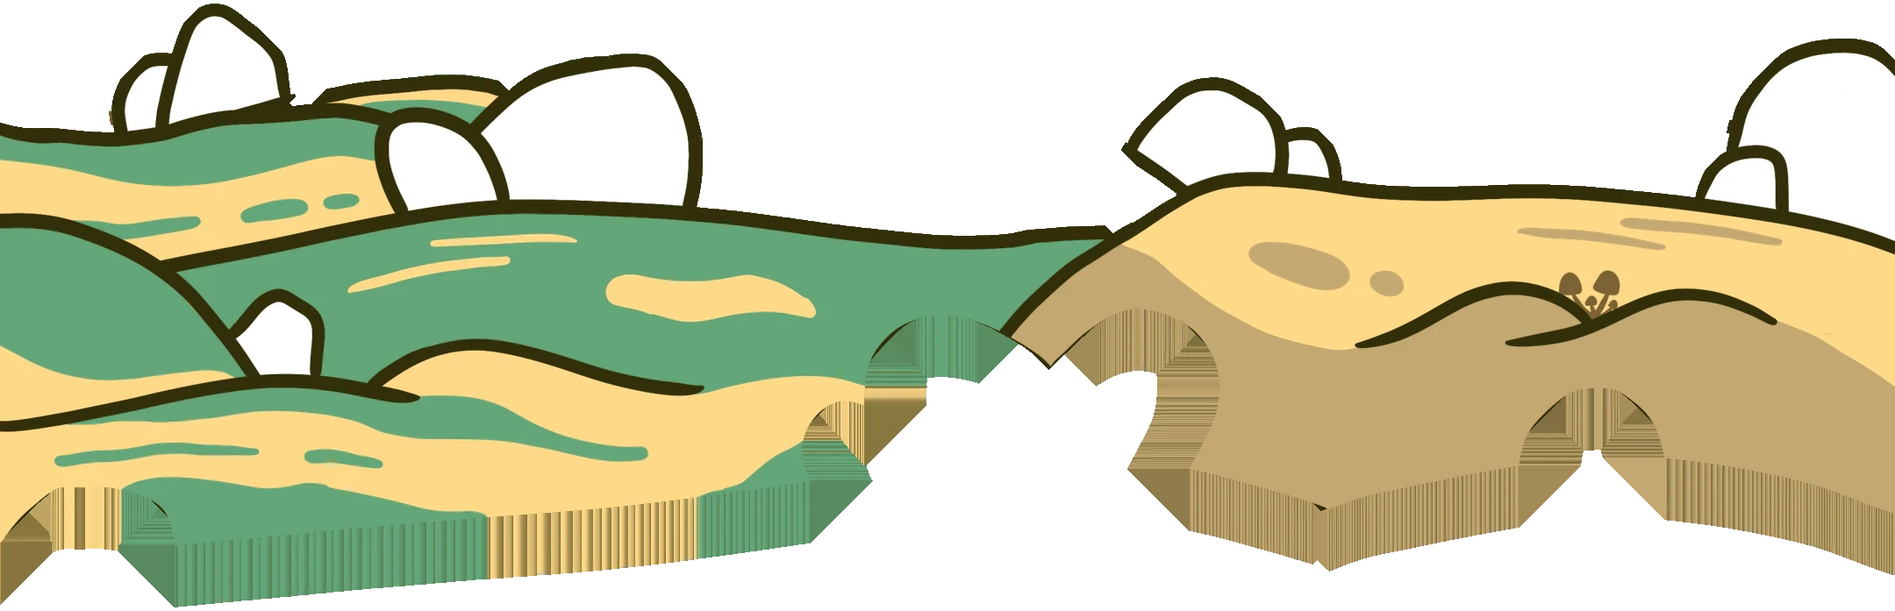
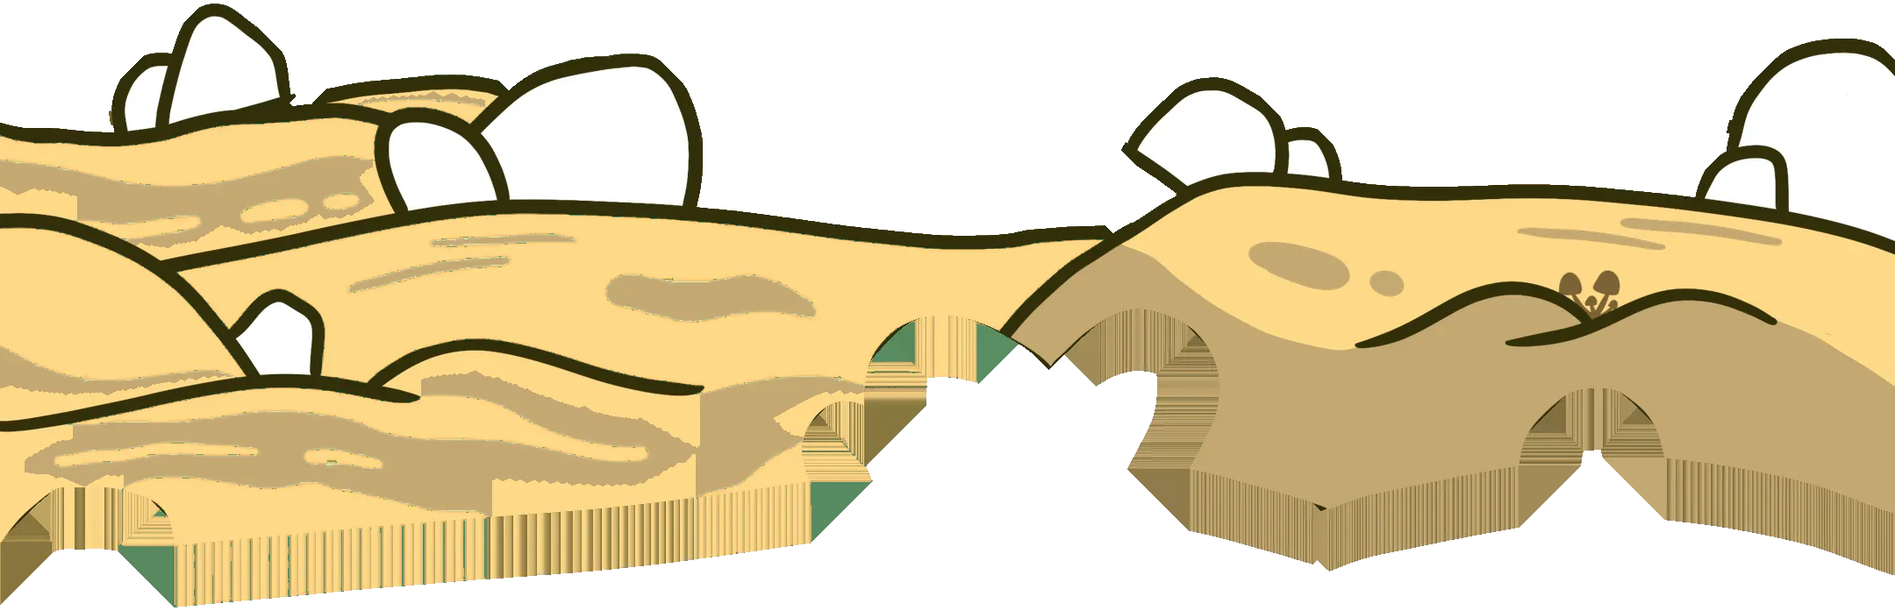
Ciclos: el cambio de ciclo, de la noche al día (#92)
* Ciclos: the night pours away as a tide over the cycle

A cycle begins with the night over 90% of the sky and every plant let go
pours the day further as a liquid, until it is almost all day; the stars
live wherever the night is, and the clouds drift faster.

Claude-Session: https://claude.ai/code/session_01QfwwihVpCPTovbdSum58Fi

* Ciclos: the dry hills turn green as the day pours

A layer's turn in useLayerStage recolours the px of two colours by a
flowing front; Ciclos's land starts tan and turns green from left to
right with the tide.

Claude-Session: https://claude.ai/code/session_01QfwwihVpCPTovbdSum58Fi

* Ciclos: every hill yellow above and tan below

scripts/swap-ciclos-hills.mjs swaps the colours of the green hills (green
to yellow, yellow to tan), so all start dry the same way round and their
tan turns green with the day.

Claude-Session: https://claude.ai/code/session_01QfwwihVpCPTovbdSum58Fi

* Ciclos: dry hills and a cream name by night, the drawing by day

The hills start dry (yellow above, tan below) and turn into the drawing's
green and yellow along the flowing front: a layer's turn in useLayerStage
is now a second picture (landN-day.webp, from swap-ciclos-hills.mjs). The
card's name is cream over the night and its colour by day (--name-night).

Claude-Session: https://claude.ai/code/session_01QfwwihVpCPTovbdSum58Fi

---------

Changed region(s): [[0.0, 0.1506, 0.5894, 0.9943]]

diff --git a/src/components/scenes/SceneCiclos.vue b/src/components/scenes/SceneCiclos.vue
@@ -6,9 +6,11 @@
     // and tufts of grass, Sid sits meditating on a rock with his red aura round him.
     // Its verb is Soltar (closing a cycle: "you can only move forward if you are able to let go of the old"). The plants
     // of the hills, the pink fans and the tufts of grass, hold the old cycle as their dry leaves: a touch on one lets them
-    // go (`release`): it shivers, its leaves fly off with the wind and it is left low and bare. With every plant let go
-    // the day flows a little further over the round body in the sky (a dent pressed into the edge, the field's uDent), so
-    // the moon gives way to the sun. Holding Sid is a breath, as in Vipassana, Nekkhamma and Upekkha (`inhale`; let go
+    // go (`release`): it shivers, its leaves fly off with the wind and it is left low and bare. A cycle begins with the
+    // night over almost all the sky, and with every plant let go the day pours a little further over it as a liquid (the
+    // tide, pour()) until it is almost all day; the dry hills turn into the drawing's green and yellow from left to right with it, and
+    // the name from cream to its colour; and over the round body in the sky (a dent pressed into the edge, the
+    // field's uDent), so the moon gives way to the sun. Holding Sid is a breath, as in Vipassana, Nekkhamma and Upekkha (`inhale`; let go
     // once gathered, `exhale`, and every plant left lets go at once). With them all bare the sun is whole: F7 resolves to
     // B flat (`resolve`), the corona flares, the name lights up and the rulito is born over his head (`rulito`); when it
     // goes the night pours back over the sun and the plants grow their leaves again: a new cycle. Left alone 7 s, a plant
@@ -97,7 +99,7 @@
     const CLOUD_Y = [Math.min(...art.clouds.map(([, y, , h]) => y + h / 2)), 1100];
     const clouds = art.clouds.map(([x, y, w, h, ax, ay], i) => ({
         i, art: { x: x + w / 2, y: Math.min(CLOUD_Y[1], y + h / 2), w, h }, crop: [ax / CW, ay / CH, w / CW, h / CH],
-        rest: { left: 0, top: 0, w: 1, h: 1 }, x0: 0, phase: Math.random() * 6.28, speed: 4 + (i % 3) * 2.5, depth: i % 3,
+        rest: { left: 0, top: 0, w: 1, h: 1 }, x0: 0, phase: Math.random() * 6.28, speed: 9 + (i % 3) * 5, depth: i % 3,
     }));
     let span = { left: 0, width: 1 };
 
@@ -170,6 +172,23 @@
             for (let x = 0; x < w; x++) grid[y * w + x] = d[x];
         }
     };
+    // The tide: over a cycle the night does not stay as the card has it. A cycle begins with the night over almost all
+    // the sky (NIGHT_START of what is seen of it) and every plant let go pours the day a little further, until it is
+    // almost all day (NIGHT_END). It is the card's edge, moved: each px keeps how far it is from that edge (px, more
+    // into the night), plus a slope (TIDE_SLOPE: px for each px to the right and for each px down), so the day stays
+    // over the name at first and the last of the night goes off to the right, low behind Sid; the field is written again from it as the tide
+    // moves (pour), the edge at its level, so it flows with its waves as before
+    const NIGHT_START = 0.9, NIGHT_END = 0.06;
+    const TIDE_SLOPE = [0.25, 0.6];
+    const SKY_BOTTOM = 1150;                // art y under which the hills hide the sky
+    // The ground goes with it: the hills, dry when the cycle begins (all yellow above and tan below), turn into the drawing
+    // by day (green and yellow) as the day pours, along a front that flows from left to right (each land picture's `turn`
+    // in useLayerStage: landN.webp dry and landN-day.webp, both made by scripts/swap-ciclos-hills.mjs). And the card's
+    // name: cream in the night, its own colour by day (--name-night on the stage, CardTemplate)
+    const GROUND_SOFT = 3, GROUND_LOBES = 60;   // px of the front's softness and of its lobes                // art y under which the hills hide the sky
+    // and a few slow lobes, so its front is not a straight line as it moves (px)
+    const lobes = (x, y) => 55 * Math.sin(x / 210 + 1.3) * Math.sin(y / 170 + 0.4) + 30 * Math.sin((x - 0.6 * y) / 120 + 2.1);
+    const tide = { phi: null, width: 0, height: 0, at: [0, 0], level: NaN, image: null };
     const writeField = (area) => {
         const width = Math.ceil(area.w * FIELD), height = Math.ceil(area.h * FIELD);
         const inNight = new Uint8Array(width * height);
@@ -186,19 +205,48 @@
         }
         distances(toNight, width, height);
         distances(toDay, width, height);
+        // How far each px is into the night (px on screen; < 0 in the day), with the slope
+        const phi = new Float32Array(width * height);
+        const seen = [];
+        const skyBottom = sy(SKY_BOTTOM);
+        const screenR = area.w - 2 * MARGIN;
+        for (let fy = 0; fy < height; fy++) {
+            const y = area.top + (fy + 0.5) / FIELD;
+            for (let fx = 0; fx < width; fx++) {
+                const x = area.left + (fx + 0.5) / FIELD;
+                const i = fy * width + fx;
+                // (half a px each way, so the edge falls between the two)
+                const d = (inNight[i] ? Math.sqrt(toDay[i]) - 0.5 : 0.5 - Math.sqrt(toNight[i])) / FIELD;
+                phi[i] = d + TIDE_SLOPE[0] * (x - screenR / 2) + TIDE_SLOPE[1] * y + lobes(x, y);
+                if (x >= 0 && x <= screenR && y >= 0 && y <= skyBottom && (fx + fy) % 2 === 0) seen.push(phi[i]);
+            }
+        }
+        // The levels where NIGHT_START and NIGHT_END of the sky that is seen are night
+        seen.sort((a, b) => a - b);
+        const at = (q) => seen.length ? seen[Math.min(seen.length - 1, Math.floor(q * seen.length))] : 0;
+        Object.assign(tide, { phi, width, height, at: [at(1 - NIGHT_START), at(1 - NIGHT_END)], level: NaN });
         skyField.width = width;
         skyField.height = height;
-        const ctx = skyField.getContext('2d');
-        const image = ctx.createImageData(width, height);
-        const norm = 1 / FIELD / (2 * FIELD_RANGE);
-        for (let i = 0; i < width * height; i++) {
-            // (half a px each way, so the edge falls between the two)
-            const d = inNight[i] ? Math.sqrt(toDay[i]) - 0.5 : 0.5 - Math.sqrt(toNight[i]);
-            image.data[i * 4] = Math.round(Math.min(1, Math.max(0, 0.5 + d * norm)) * 255);
-            image.data[i * 4 + 1] = 255;
-            image.data[i * 4 + 3] = 255;
+        tide.image = skyField.getContext('2d').createImageData(width, height);
+        pour(true);
+    };
+    // The field at the tide's level now (only when it has moved half a px)
+    const pour = (force = false) => {
+        if (!tide.phi) return;
+        const level = tide.at[0] + (tide.at[1] - tide.at[0]) * ease(Math.min(1, Math.max(0, flowed)));
+        if (!force && Math.abs(level - tide.level) < 0.5) return false;
+        tide.level = level;
+        const { phi, image } = tide;
+        const norm = 1 / (2 * FIELD_RANGE);
+        const data = image.data;
+        for (let i = 0, n = phi.length; i < n; i++) {
+            const v = 0.5 + (phi[i] - level) * norm;
+            data[i * 4] = v <= 0 ? 0 : v >= 1 ? 255 : (v * 255 + 0.5) | 0;
+            data[i * 4 + 1] = 255;
+            data[i * 4 + 3] = 255;
         }
-        ctx.putImageData(image, 0, 0);
+        skyField.getContext('2d').putImageData(image, 0, 0);
+        return true;
     };
     // The drops of the card, alive: each sways and trembles where the card has it, as a liquid (only the sky's life:
     // the game is the plants, which a phone always shows; most drops are past its edges or too small for a finger)
@@ -226,6 +274,7 @@
     const BARE = { sy: 0.38, sx: 0.7, opacity: 0.5 };   // a plant that has let go: low, thin and faded (it grows back)
     const sparks = createSparks(360);
     let dent = 0;                           // how far the day has flowed over the disc, 0..1 (eases to its goal)
+    let flowed = 0;                         // how far the day has poured over the sky, 0..1 (the tide; slower than the dent)
     let alone = 0;                          // s since the last touch
     let backAt = 0;
     let released = 0;
@@ -395,6 +444,10 @@
             });
         });
         dent += (dentGoal() - dent) * Math.min(1, dt * (win || dentGoal() > dent ? 1.3 : 0.45));
+        // The day pours over the sky as a liquid, a little with every plant; the night pours back slower
+        const goal = dentGoal();
+        flowed += Math.sign(goal - flowed) * Math.min(Math.abs(goal - flowed), dt * (goal > flowed ? 0.05 : 0.03) + Math.abs(goal - flowed) * dt * (goal > flowed ? 0.6 : 0.3));
+        if (pour()) L.sky.refresh();
         const sr = MOON.r * k() * 1.05;
         L.sky.uniforms.uDent.value.set(sx(SUN.x), sy(SUN.y), sr, FULL * ease(Math.min(1, dent)));
 
@@ -456,6 +509,8 @@
             }
         }
         stageEl?.style.setProperty('--name-glow', named.toFixed(3));
+        const night = Math.min(1, Math.max(0, (flowed - 0.1) / 0.4));
+        stageEl?.style.setProperty('--name-night', (1 - night * night * (3 - 2 * night)).toFixed(3));
         return { named, charge };
     };
 
@@ -508,7 +563,7 @@
             const node = s.depth(zFor(DEPTH.land[p]));
             const sides = P.sides ? [-1, 0, 1] : [0];
             const land = sides.map((side) => {
-                const img = node.image(`/assets/ciclos/${P.name}.webp`);
+                const img = node.image(`/assets/ciclos/${P.name}.webp`, { turn: `/assets/ciclos/${P.name}-day.webp` });
                 if (side) img.sx = -1;
                 return { img, side };
             });
@@ -670,8 +725,13 @@
         L.warm.opacity = 0.6 + 0.1 * Math.sin(t * 0.4) + 0.3 * flare;
         L.sunNode.y = scroll * 10;
 
-        // ---- The land
-        L.planes.forEach(({ node }, p) => { node.y = scroll * DEPTH.land[p]; });
+        // ---- The land, and the green flowing over it with the day
+        const reach = (GROUND_SOFT + GROUND_LOBES * 1.6 + SLIDE * 2) * stage.dpr;
+        const front = -reach + (screenW * stage.dpr + 2 * reach) * ease(Math.min(1, Math.max(0, flowed)));
+        L.planes.forEach(({ node, land }, p) => {
+            node.y = scroll * DEPTH.land[p];
+            land.forEach(({ img }) => img.uniforms.uTurn.value.set(front, GROUND_SOFT * stage.dpr, GROUND_LOBES * stage.dpr, 1));
+        });
 
         // ---- Sid breathes, from his seat; his aura with him, flaring when touched
         glowSid = Math.max(0, glowSid - dt * 0.7);
@@ -710,20 +770,31 @@
         if (gone) { made.destroy(); return; }
         stage = made;
         stageEl = root.value.closest('.stage');
+        stageEl?.style.setProperty('--name-night', '1');
         build(stage);
         hand = createGhostHand(stage, { color: 0x143246, shade: 0xf7f8f1 });   // navy: the cream hand does not read on the day's yellow
         stage.onResize((w, h) => place(w, h));
         const after = (node) => node.mesh.renderOrder + 0.5;
-        // Every star, and its reflections about the frame's edges that fall on the screen and well inside the night
-        const deep = (ax, ay) => [[0, 0], [24, 0], [-24, 0], [0, 24], [0, -24]].every(([dx, dy]) => nightAt(ax + dx, ay + dy));
+        // The stars: the card's own, and as many again over the rest of the sky (the night pours over all of it), always
+        // the same ones; only seen where the night is (the field's mask), so they come and go with the tide
+        const STAR_R = NIGHT.stars.map(([, , r]) => r);
+        const extraStars = (() => {
+            let seed = 7;
+            const rnd = () => { seed = (seed * 16807) % 2147483647; return seed / 2147483647; };
+            const out = [];
+            for (let n = 0; n < NIGHT.stars.length * 6; n++) {
+                const ax = -SIZE * 0.5 + rnd() * SIZE * 2, ay = -SIZE * 0.6 + rnd() * SIZE * 1.4, r = STAR_R[Math.floor(rnd() * STAR_R.length)];
+                const inCard = ax >= 0 && ax < SIZE && ay >= 0;
+                if (!inCard || !nightAt(ax, ay)) out.push([ax, ay, r]);
+            }
+            return out;
+        })();
         const starPoints = (w, h) => {
             const out = [];
-            NIGHT.stars.forEach(([x, y, r]) => {
-                [[x, y], [2 * SIZE - x, y], [x, -y], [2 * SIZE - x, -y]].forEach(([ax, ay], j) => {
-                    const px = sx(ax), py = sy(ay);
-                    if (px < -40 || px > w + 40 || py < -40 || py > h + 40 || (j && !deep(ax, ay))) return;
-                    out.push([px, py, Math.max(2.2, 2 * r * k() * 1.6), NIGHT.star]);
-                });
+            [...NIGHT.stars, ...extraStars].forEach(([ax, ay, r]) => {
+                const px = sx(ax), py = sy(ay);
+                if (px < -40 || px > w + 40 || py < -40 || py > h + 40) return;
+                out.push([px, py, Math.max(2.2, 2 * r * k() * 1.6), NIGHT.star]);
             });
             return out;
         };
@@ -738,8 +809,8 @@
                 { colors: [SHADE], parallax: 0, drift: 0.4, jitter: 0.15, twinkle: 0.05, reach: 0, order: after(L.moon), mask: { field: L.sky, side: 1 }, points: () => fromArt(MOON.dots, SHADE, 1.5) },
                 // 2: Sid's aura, under him
                 { colors: [AURA], parallax: 0, drift: 1.4, jitter: 0.4, twinkle: 0.4, reach: 0, bloom: true, order: L.body.mesh.renderOrder - 0.5, points: () => fromArt(art.sid.aura, AURA, 1.1) },
-                // 3: the stars, only in the night, just over it (mirrored with it beyond the frame)
-                { colors: [NIGHT.star], parallax: 0, drift: 1.2, jitter: 0, twinkle: 0.6, reach: 90, push: 10, order: after(L.sky), points: starPoints },
+                // 3: the stars, only in the night, just over it
+                { colors: [NIGHT.star], parallax: 0, drift: 1.2, jitter: 0, twinkle: 0.6, reach: 90, push: 10, order: after(L.sky), mask: { field: L.sky, side: 1 }, points: starPoints },
                 // 4: the motes of what is let go, in front of everything
                 { ...sparks.group(), order: 1e6 },
             ],
@@ -747,7 +818,7 @@
         if (reduced) dust.reveal();
         parallax = createParallax(root.value, frame);
         root.value.addEventListener('pointerdown', press);
-        if (import.meta.env.DEV) root.value.__game = { get plants() { return plants; }, get released() { return released; }, get win() { return win; }, get dent() { return dent; }, centres: () => needed().map(centreOf) };
+        if (import.meta.env.DEV) root.value.__game = { get plants() { return plants; }, get released() { return released; }, get win() { return win; }, get dent() { return dent; }, get flowed() { return flowed; }, set flowed(v) { flowed = v; }, centres: () => needed().map(centreOf) };
         enter();
     };
 
@@ -756,6 +827,7 @@
     onBeforeUnmount(() => {
         gone = true;
         stageEl?.style.removeProperty('--name-glow');
+        stageEl?.style.removeProperty('--name-night');
         root.value?.removeEventListener('pointerdown', press);
         window.removeEventListener('pointerup', breatheOut);
         window.removeEventListener('pointercancel', breatheOut);

diff --git a/src/composables/useLayerStage.js b/src/composables/useLayerStage.js
@@ -30,6 +30,10 @@
 //   dissolve 0xRRGGBB  it can come undone from the bottom up: uniforms.uDissolve.value.y is how far (0 whole .. 1 gone),
 //            along a ragged edge (noise) that glows in that colour as it eats in (Nekkhamma's Sid)
 //   bright, saturate, tint + tintAmount  for lighting a layer up (the pine cone held)
+//   turn     'src'  (image() only) a second picture of the same size it turns into along a front with slow lobes that
+//            flows across the screen: the second on the left of the front, the first on its right (uniforms.uTurn.value:
+//            x the front, device px from the left; y its softness and z its lobes, device px; w on). Ciclos's hills,
+//            dry when a cycle begins and as in the drawing, green, by day
 //   sway     true  parts of the picture lean and stretch on their own about a point, the picture bending softly round
 //            them (Paciencia's mushrooms): node.sways is a list of up to SWAYS [u, v, w, angle (deg), stretch], u, v the
 //            point (fractions of the picture, from its top left), w the part's width (a fraction of the picture's),
@@ -113,6 +117,8 @@ const LAYER_FRAGMENT = `
     uniform vec2 uSink;            // on (0/1), level (0 full .. 1 empty)
     uniform vec2 uDissolve;        // on (0/1), how far it has come undone (0 whole .. 1 gone)
     uniform vec3 uDissolveGlow;
+    uniform vec4 uTurn;            // on (w), the front (x, device px from the left), its softness (y) and lobes (z), device px
+    uniform sampler2D uNext;       // the picture it turns into
     uniform vec2 uSize;
     uniform vec4 uCrop;            // the part of the texture shown: u, v of its corner and its size (0, 0, 1, 1: all of it)
     uniform float uSways;          // how many parts sway (-1: it does not sway at all)
@@ -188,6 +194,17 @@ const LAYER_FRAGMENT = `
         float grey = dot(c.rgb, vec3(0.299, 0.587, 0.114));
         c.rgb = mix(vec3(grey), c.rgb, uSaturate);
         c.rgb = mix(c.rgb, uTint * c.a, uTintAmount);
+        if (uTurn.w > 0.0) {
+            // Left of the front it is the second picture; the front flows
+            vec2 f = gl_FragCoord.xy;
+            float lobe = (noise(vec2(f.y / (0.9 * uTurn.z + 1.0), uTime * 0.15)) - 0.5) * 2.0 + 0.45 * sin(f.y / (0.5 * uTurn.z + 1.0) - uTime * 0.6);
+            float next = 1.0 - smoothstep(-uTurn.y, uTurn.y, f.x + lobe * uTurn.z - uTurn.x);
+            if (next > 0.0) {
+                vec4 n = texture2D(uNext, at, uBias);
+                n.rgb *= uBright;
+                c = mix(c, n, next);
+            }
+        }
         if (uWater > 0.0) {
             c.rgb += vec3(caustic(vUv, uTime)) * 0.1 * uWater * c.a;
         }
@@ -598,7 +615,8 @@ export async function createLayerStage(canvas, { fov = 30, maxDpr = 2 } = {}) {
             return node;
         }
 
-        image(src, options = {}) {
+        // A picture, loaded once for every node that shows it
+        picture(src) {
             let picture = pictures.get(src);
             if (!picture) {
                 const texture = new THREE.Texture();
@@ -630,7 +648,13 @@ export async function createLayerStage(canvas, { fov = 30, maxDpr = 2 } = {}) {
                     img.src = src;
                 }));
             }
-            const node = this.plane(picture.texture, options);
+            return picture;
+        }
+
+        image(src, options = {}) {
+            const picture = this.picture(src);
+            const next = options.turn ? this.picture(options.turn) : null;
+            const node = this.plane(picture.texture, { ...options, turn: next?.texture ?? null });
             node.mesh.visible = picture.loaded;
             picture.nodes.push(node);
             return node;
@@ -660,7 +684,7 @@ export async function createLayerStage(canvas, { fov = 30, maxDpr = 2 } = {}) {
 
         // crop: [left, top, width, height] of the part of the texture shown, as fractions of it (from its top left)
         plane(texture, { rect = { left: 0, top: 0, w: 1, h: 1 }, pivot = null, crop = null, wind = null, shimmer = 0, flow = null, water = 0, sheen = 0, sink = false, dissolve = null, blur = 0, bloom = false,
-            blending = 'normal', segments = null, under = false, vignette = 0, sway = false } = {}) {
+            blending = 'normal', segments = null, under = false, vignette = 0, sway = false, turn = null } = {}) {
             const node = new Node(this);
             const segs = segments ?? (wind ? [24, 10] : [1, 1]);
             const uniforms = {
@@ -681,6 +705,8 @@ export async function createLayerStage(canvas, { fov = 30, maxDpr = 2 } = {}) {
                 uDissolveGlow: { value: new THREE.Color(...parseColor(dissolve ?? 0xffffff)) },
                 uClip: { value: new THREE.Vector4(1, 0, 0, 0) },
                 uClipSoft: { value: 0 },
+                uTurn: { value: new THREE.Vector4(0, 1, 0, turn ? 1 : 0) },
+                uNext: { value: turn ?? texture },
                 uVignette: { value: vignette },
                 uSize: { value: new THREE.Vector2(1, 1) },
                 // (the texture's v runs from its bottom up)

diff --git a/src/components/CardTemplate.vue b/src/components/CardTemplate.vue
@@ -203,7 +203,8 @@
 
     /* A scene can light the name: it sets --name-glow (0..1) on the stage (Paciencia does when its rulito is whole) */
     .stage .title {
-        color: color-mix(in srgb, v-bind(colorAlt), #fff6cf calc(var(--name-glow, 0) * 88%));
+        /* and a scene can turn it cream while it stands over the night (--name-night, 0..1: Ciclos) */
+        color: color-mix(in srgb, color-mix(in srgb, v-bind(colorAlt), #f7f8f1 calc(var(--name-night, 0) * 100%)), #fff6cf calc(var(--name-glow, 0) * 88%));
         text-shadow:
             0 2px 18px v-bind(color),
             0 0 calc(var(--name-glow, 0) * 22px) rgba(255, 226, 120, calc(var(--name-glow, 0) * 0.9)),

diff --git a/docs/escenas.md b/docs/escenas.md
@@ -111,11 +111,11 @@ Its verb is Fluir, on the engine shared by the cards of the verb (`useFlow.js`).
 
 ## Ciclos (15)
 
-`SceneCiclos` (15) is built from the layers in `public/assets/ciclos` and `ciclosScene.json`, both made by `scripts/convert-ciclos.mjs` from the exported PNGs (`originales/ciclos`, 3240 px, scaled to the 2160 square; in the git history). The sky is not a picture: day and night are two liquids that never mix (`field()` in `useLayerStage`, as Upekkha's and Aceptación's). The teal night is in no layer: the converter reads it from the finished card (`public/cards/15.webp`) where nothing is drawn over it; what is covered (the moon, the sun, the clouds, Sid, the land, the logo) takes the nearest colour, and the edge is softened, much more round the moon and the sun so the line that splits the disc is a smooth curve. It writes the night's colour, its mask as runs per row (`night.rows`), its drops as ellipses (`night.bubbles`: teal ones in the day, yellow ones in the night) and the stars of layer 1 that fall well inside it. The scene turns the mask into distances when the screen changes size (an exact distance transform each way, `writeField`). The edge flows with a slow wave (`WAVE`), the drops sway and tremble as bubbles (`moveDrops`), and the stars are particles only in the night. Beyond the frame the edge goes on straight out: the day on the left, the night on the right, and over the top only the night of the top-right corner, so the card's name stays on the day.
+`SceneCiclos` (15) is built from the layers in `public/assets/ciclos` and `ciclosScene.json`, both made by `scripts/convert-ciclos.mjs` from the exported PNGs (`originales/ciclos`, 3240 px, scaled to the 2160 square; in the git history). The sky is not a picture: day and night are two liquids that never mix (`field()` in `useLayerStage`, as Upekkha's and Aceptación's). The teal night is in no layer: the converter reads it from the finished card (`public/cards/15.webp`) where nothing is drawn over it; what is covered (the moon, the sun, the clouds, Sid, the land, the logo) takes the nearest colour, and the edge is softened, much more round the moon and the sun so the line that splits the disc is a smooth curve. It writes the night's colour, its mask as runs per row (`night.rows`), its drops as ellipses (`night.bubbles`: teal ones in the day, yellow ones in the night) and the stars of layer 1 that fall well inside it. The scene turns the mask into distances when the screen changes size (an exact distance transform each way, `writeField`). The edge flows with a slow wave (`WAVE`), the drops sway and tremble as bubbles (`moveDrops`), and the stars are particles only in the night: the card's own and as many again over the rest of the sky (fixed, seeded), kept to the night by the field's mask, so they come and go with it. The night is a tide over the cycle (since November 2026): a cycle begins with the night over 90% of the sky that is seen (`NIGHT_START`) and ends with it over 6% (`NIGHT_END`), low on the right behind Sid. From the distances `writeField` keeps, for each px, how far it is into the night, plus a slope (`TIDE_SLOPE`, so the day stays over the name at first and leaves the night to the right) and a few slow lobes (`lobes()`, so the front is not a straight line); the two levels are the quantiles of that over the sky that is seen (above `SKY_BOTTOM`), worked out again with the screen's size. `pour()` writes the field again at the tide's level, only when it has moved half a px, so the edge keeps its waves and its membrane and flows as before. `flowed` eases towards the share of plants let go (slower than the disc's `dent`: the day pours over the sky little by little, and the night pours back slower when a new cycle begins). The ground and the name go with it, as part of the cycle. When a cycle begins every hill is dry, yellow above and tan below (in the card the green hills have their colour on top and the yellow below), and by day the hills are as in the drawing, green and yellow (the tan of the tan hills turned green). `scripts/swap-ciclos-hills.mjs`, run once after the converter, makes both from each `landN.webp`: `landN-day.webp` (by day) and `landN.webp` again, dry (in the green hills the green becomes the yellow and the yellow the tan; where two hills meet with no line a px goes with the nearest of green and tan; each px moves by how much it holds of each hill colour, and a soft edge of a line only next to the colour itself, so the little mushrooms keep their brown). Each land picture turns into its day picture along a front with slow lobes that flows from left to right, in step with `flowed` (`turn` in `useLayerStage`: a second picture of the same size, shown left of `uTurn`; `GROUND_SOFT`, `GROUND_LOBES`). The card's name is cream while the night is over it and its own colour by day (`--name-night` on the stage, 0..1, which `CardTemplate.vue` mixes into the name's colour). Beyond the frame the edge goes on straight out: the day on the left, the night on the right, and over the top only the night of the top-right corner, so the card's name stays on the day.
 
 The round body in the sky is both moon and sun, as in the card: the moon (2, 3, 5, a picture) and its stippled shade (4, particles that ride and turn with it, `turn()`) are kept to the night side of the same field the sky is drawn with; the sun is kept to the day side: a disc drawn in code (`disc()`, whole under the moon), its soft lights, and over the disc's edge its stippled corona as live particles, read from the finished card by `scripts/sun-cloud.mjs` on the left of the sun, the only part the card shows (`sun.cloud`; `strict`, since the night's teal lies on the way from the day's yellow to the red), as Metta's lights (package S): the disc is only as big as where the sun is still whole (`cloud.solid`), so no circle shows. Where the day flows across the disc the moon gives way to the sun, and back. This is a mask by a field (`node.maskBy(field, side)` for pictures and glows, a particle group's `mask` in `useStardust`): the material works out the field's edge as `FIELD_FRAGMENT` does (its map, wave and swell, not its bubbles) from where the px is on screen, less how far the field has slid with the camera; it is behind a define (`FIELD_MASK`), so unmasked layers draw as before.
 
-The clouds of the sky layer are cut out into one atlas (`clouds.webp`) and drift at three depths over day and night, between the card's name (measured from the stage's `h1`) and the hills, passing behind the sun and the moon. The land is four pictures, far to near (`land0`–`land3`): the converter splits the drawing into the regions between its dark lines, seeds the hills by hand (`HILLS`), sends each rock with the hill whose crest cuts it, gives a line to the nearest plane in front of it (`OWN`) and fills each plane where the plane in front hides it (`HIDDEN`), so nothing opens up as the planes slide apart. Every pink fan (18, 19) and every tuft of grass (14, 15) is cut out into one atlas (`plants.webp`) and hung on the plane it grows on, swaying in the wind. Beyond the frame each plane that reaches the sides is mirrored about the frame's edges, with its plants. Sid (21, 22) is a picture on his rock in the second plane; his stippled aura (20) is particles under him, with a soft light; he breathes from his seat, and his aura with him. The disc rides slowly back and forth (`RIDE`) and rocks a little; the corona trembles. A short touch on Sid strums the chord (`star`) and flares his aura; a touch on the moon rocks it on a spring, strums the chord and flares the corona (with Enter too). Its verb is Soltar: the plants of the hills hold the old cycle as their dry leaves (it was the card's drops until November 2026, but on a phone three were past the screen's edge and the rest only 10 to 25 px; the drops still sway in the sky, `moveDrops()`). A touch on a fan or a tuft (hit-tested on its picture's box on screen, at least 48 px, `plantAt()`) lets it go (`letGo()`, `release`): it shivers (`shake`, with its wind stronger), its dry leaves fly off with the wind (`createSparks`, the last particle group, with `push`: a wind added to the burst, in the plant's colours, `LEAVES`) and over `SHED` s it is left low, thin and faded (`BARE`, in `game()`, on every copy of it, `copies`, mirrors included). Only the plants on the screen count, the `MOST` (8) biggest of them (`need`, `markNeeded()`). With every plant let go the day flows further over the round body: the field has a dent pressed into its edge round the sun (`uDent` in `FIELD_FRAGMENT`, and `fmDent` in `FIELD_MASK_CHUNK` so the moon's and the corona's masks follow it: centre, radius whole inside it and gone at twice, and how many px the edge gives way towards the day, `FULL` = 150 px at the end, past `FIELD_RANGE`, so the whole disc is day), eased towards the share of plants let go (`dent`). Holding Sid is a breath (`BREATH_AT`, `BREATH`; `inhale`: he grows a little taller and brighter, his aura swells and motes gather round him); let go once gathered, `exhale`, and every plant left lets go one after the other (`sceneMilestone('breath_released')`, with `plants`). With none left (`closeCycle()`): F7 resolves to B flat (`resolve`), the corona and his aura flare, and the rulito is born over his head (`GLYPH`, `Rulito.vue` in the aura's pink), the name lights up and `rulito` sounds (`sceneMilestone('cycle_closed')`); when its tail has caught its head the night pours back over the sun and the plants grow their leaves again one after the other (`newCycle()`, `REGROW`). Left alone 7 s (`HINT_AFTER`) a plant that counts shines and sways and the ghost hand (`useGhostHand.js`, navy with a cream halo: the cream does not read on the day's yellow) taps it, following it; every third time it holds Sid instead. Left alone 15 s (`IDLE_BACK`) a bare plant grows its leaves back, then another every 4 s (`BACK`). With the keyboard, Enter on Sid lets go of the plant that counts nearest to him. Reduced motion keeps it still and not played. The frame rests on the bottom of the screen; on a wide screen a tenth of it goes under the edge (`DROP`); on a phone upright it is as big as the moon and Sid allow across (`SPAN`, `FOCUS`). Reduced motion keeps it still. Not converted: the Algo Particular mark (6), and the rest of the sky layer (7), drawn in code. There is no rulito layer. Over the card on a wide screen the night takes the day little by little: above the top row of the card the edge of the night moves left as it goes up, faster the higher, with a wave along it (`UP_SLOPE`, `UP_WAVE` in `nightAt()`), so the yellow narrows into a wavy curve and is gone instead of going on straight up; on a phone the little sky over the card stays as it was (`wideScreen`).
+The clouds of the sky layer are cut out into one atlas (`clouds.webp`) and drift at three depths over day and night (9 to 19 px/s), between the card's name (measured from the stage's `h1`) and the hills, passing behind the sun and the moon. The land is four pictures, far to near (`land0`–`land3`): the converter splits the drawing into the regions between its dark lines, seeds the hills by hand (`HILLS`), sends each rock with the hill whose crest cuts it, gives a line to the nearest plane in front of it (`OWN`) and fills each plane where the plane in front hides it (`HIDDEN`), so nothing opens up as the planes slide apart. Every pink fan (18, 19) and every tuft of grass (14, 15) is cut out into one atlas (`plants.webp`) and hung on the plane it grows on, swaying in the wind. Beyond the frame each plane that reaches the sides is mirrored about the frame's edges, with its plants. Sid (21, 22) is a picture on his rock in the second plane; his stippled aura (20) is particles under him, with a soft light; he breathes from his seat, and his aura with him. The disc rides slowly back and forth (`RIDE`) and rocks a little; the corona trembles. A short touch on Sid strums the chord (`star`) and flares his aura; a touch on the moon rocks it on a spring, strums the chord and flares the corona (with Enter too). Its verb is Soltar: the plants of the hills hold the old cycle as their dry leaves (it was the card's drops until November 2026, but on a phone three were past the screen's edge and the rest only 10 to 25 px; the drops still sway in the sky, `moveDrops()`). A touch on a fan or a tuft (hit-tested on its picture's box on screen, at least 48 px, `plantAt()`) lets it go (`letGo()`, `release`): it shivers (`shake`, with its wind stronger), its dry leaves fly off with the wind (`createSparks`, the last particle group, with `push`: a wind added to the burst, in the plant's colours, `LEAVES`) and over `SHED` s it is left low, thin and faded (`BARE`, in `game()`, on every copy of it, `copies`, mirrors included). Only the plants on the screen count, the `MOST` (8) biggest of them (`need`, `markNeeded()`). With every plant let go the day flows further over the round body: the field has a dent pressed into its edge round the sun (`uDent` in `FIELD_FRAGMENT`, and `fmDent` in `FIELD_MASK_CHUNK` so the moon's and the corona's masks follow it: centre, radius whole inside it and gone at twice, and how many px the edge gives way towards the day, `FULL` = 150 px at the end, past `FIELD_RANGE`, so the whole disc is day), eased towards the share of plants let go (`dent`). Holding Sid is a breath (`BREATH_AT`, `BREATH`; `inhale`: he grows a little taller and brighter, his aura swells and motes gather round him); let go once gathered, `exhale`, and every plant left lets go one after the other (`sceneMilestone('breath_released')`, with `plants`). With none left (`closeCycle()`): F7 resolves to B flat (`resolve`), the corona and his aura flare, and the rulito is born over his head (`GLYPH`, `Rulito.vue` in the aura's pink), the name lights up and `rulito` sounds (`sceneMilestone('cycle_closed')`); when its tail has caught its head the night pours back over the sun and the plants grow their leaves again one after the other (`newCycle()`, `REGROW`). Left alone 7 s (`HINT_AFTER`) a plant that counts shines and sways and the ghost hand (`useGhostHand.js`, navy with a cream halo: the cream does not read on the day's yellow) taps it, following it; every third time it holds Sid instead. Left alone 15 s (`IDLE_BACK`) a bare plant grows its leaves back, then another every 4 s (`BACK`). With the keyboard, Enter on Sid lets go of the plant that counts nearest to him. Reduced motion keeps it still and not played. The frame rests on the bottom of the screen; on a wide screen a tenth of it goes under the edge (`DROP`); on a phone upright it is as big as the moon and Sid allow across (`SPAN`, `FOCUS`). Reduced motion keeps it still. Not converted: the Algo Particular mark (6), and the rest of the sky layer (7), drawn in code. There is no rulito layer. Over the card on a wide screen the night takes the day little by little: above the top row of the card the edge of the night moves left as it goes up, faster the higher, with a wave along it (`UP_SLOPE`, `UP_WAVE` in `nightAt()`), so the yellow narrows into a wavy curve and is gone instead of going on straight up; on a phone the little sky over the card stays as it was (`wideScreen`).
 
 ## Comunicación (17)
 

diff --git a/CLAUDE.md b/CLAUDE.md
@@ -66,7 +66,7 @@ These cannot see what a real GPU or a real phone does (flicker, disappearing lay
 - `SceneAceptacion` (11): two equal beings on either bank of a river under two skies, the cream past with a pink sun and a yellow sky with a peach planet. The skies are two liquids that never mix (`field()`, as Upekkha's, with the card's wavy edge and drops), the sun all a stipple of particles with no disc, as Pañña's (`scripts/sun-cloud.mjs`); the beings breathe together, blink and glance at each other, the plants sway and the river ripples; layers in `public/assets/aceptacion` and `aceptacionScene.json` (made by `scripts/convert-aceptacion.mjs`). Its verb is Fluir, on the engine of `useFlow.js`: a light born at the horizon, where the two skies meet, winds down the river from bank to bank as a finger slides with it; the two little cairns on the island (each half of `cairns.webp`) wobble, restless, and are the knots: as the light comes accompanied each settles, still, and the light climbs one, crosses over and goes down the other; with both lit the beings stretch up together and the rulito the card draws over each is born. Details: `docs/escenas.md`.
 - `SceneBelleza` (13): two beings embrace in a clearing of pink trees under a teal canopy; layers in `public/assets/belleza` and `bellezaScene.json` (made by `scripts/convert-belleza.mjs`). The sky and meadow are a gradient in code, the trees are in three planes that sway in a breeze (mirrored past the frame on wide screens), the free leaves of the canopy stir in place, the mushrooms lean and glow, the motes and the dust round the two are particles. The two breathe and now and then hug closer (a touch on them hugs at once, a touch anywhere is a gust and strums `star`). Its verb is Ver, looking closely: three of ten plain things of the wood (a far bush, the bark, a stone, a sprout...) hide a beauty each round; holding a finger still gathers a ring of attention and, near a hidden one, it blooms into a flower of dots in the chord's colours (`resonate`); now and then a hidden one glints; with the three found their flowers fly to the two, who hug, a light goes out from them through the wood as a breeze (`converge`) and the rulito is born over them. Details: `docs/escenas.md`.
 - `SceneCelebracion` (14): a bonfire in a night clearing between two pink trees (on a phone, over the card, they go up into a roof of leaves as Belleza's canopy, a night teal in code with Belleza's free leaves on it, and end in crowns borrowed from Belleza's trees, recoloured: `scripts/make-celebracion-crowns.mjs`; on a wide screen the scene is as it was), with the Samas, foxes, cats and little beings round it, each its own picture; layers in `public/assets/celebracion` and `celebracionScene.json` (made by `scripts/convert-celebracion.mjs`). The sky and the ground's flat blue are code, and the stars, the lamp halos, the glowing mushrooms and the embers are particles. The fire flickers and throws embers, the lamps sway and breathe, everyone breathes, a tap hops a being or strums the chord and makes the fire flare. Its verb is Fluir, on the engine of `useFlow.js`: a spark leaves the fire and goes round the circle by everyone's feet as a finger slides with it; each one it reaches accompanied is a knot (it hops, lights up warm, the flame grows); back in the fire with all lit the fire leaps, everyone hops and the rulito is born over the flame. Details: `docs/escenas.md`.
-- `SceneCiclos` (15): a teal starry night pours over the yellow day as two liquids that never mix (`field()`; the night's shape, drops and stars read from the card by the converter), and the round body in the sky is the white moon over the night and a red sun with its stippled corona over the day (the corona read from the card by `scripts/sun-cloud.mjs`, over the disc's edge so no circle shows), split live by the flowing edge (`maskBy()` in `useLayerStage.js`, a particle group's `mask` in `useStardust.js`); drifting clouds, hills in four planes with swaying fans and grass, and Sid meditating on a rock with his aura as particles; layers in `public/assets/ciclos` and `ciclosScene.json` (made by `scripts/convert-ciclos.mjs`). Its verb is Soltar: the plants of the hills (pink fans, tufts of grass) hold the old cycle as their dry leaves; a touch lets one go (`release`: its leaves fly off with the wind, `push` in `useSparks.js`, and it is left low and bare) and with each the day flows further over the disc (the field's `uDent`), so the moon gives way to the sun; holding Sid is a breath (`inhale`, `exhale`: every plant left lets go); with none left F7 resolves to B flat (`resolve`) and the rulito is born over Sid, then the night pours back and the plants grow their leaves again (a new cycle); left alone 15 s a bare one grows back. The card's drops only sway in the sky (on a phone they were off the screen or too small to touch). Details: `docs/escenas.md`.
+- `SceneCiclos` (15): a teal starry night pours over the yellow day as two liquids that never mix (`field()`; the night's shape, drops and stars read from the card by the converter), and the round body in the sky is the white moon over the night and a red sun with its stippled corona over the day (the corona read from the card by `scripts/sun-cloud.mjs`, over the disc's edge so no circle shows), split live by the flowing edge (`maskBy()` in `useLayerStage.js`, a particle group's `mask` in `useStardust.js`); drifting clouds, hills in four planes with swaying fans and grass, and Sid meditating on a rock with his aura as particles; layers in `public/assets/ciclos` and `ciclosScene.json` (made by `scripts/convert-ciclos.mjs`). Its verb is Soltar: the plants of the hills (pink fans, tufts of grass) hold the old cycle as their dry leaves; a touch lets one go (`release`: its leaves fly off with the wind, `push` in `useSparks.js`, and it is left low and bare) and with each the day pours further over the sky as a liquid (a cycle begins with the night over 90% of the sky and ends with it over 6%: the field written again at the tide's level, `pour()`; the hills go from dry, yellow above and tan below, to the drawing's green and yellow with it, along a front that flows from left to right, a layer's `turn` in `useLayerStage.js` to a second picture, `landN-day.webp` from `scripts/swap-ciclos-hills.mjs`; and the name from cream to its colour, `--name-night`) and over the disc (the field's `uDent`), so the moon gives way to the sun; holding Sid is a breath (`inhale`, `exhale`: every plant left lets go); with none left F7 resolves to B flat (`resolve`) and the rulito is born over Sid, then the night pours back and the plants grow their leaves again (a new cycle); left alone 15 s a bare one grows back. The card's drops only sway in the sky (on a phone they were off the screen or too small to touch). Details: `docs/escenas.md`.
 - `SceneComunicacion` (17): looking up through a ring of pink trees at three beings floating in a round opening of teal sky; layers in `public/assets/comunicacion` and `comunicacionScene.json` (made by `scripts/convert-comunicacion.mjs`). The canopy is three pictures at their depths that breathe and sway; the sky is code, the auras and the pollen are particles. The beings float, breathe like jellyfish and turn their heads, and the little one blinks. Its verb is Resonar as an echo in stillness: the light in the middle only sings while nothing is touched (it gathers for 3.5 s, `STILL`; a touch while it sings cuts it off); each note flies to the being that holds it (Gm: the big one Sol, the left Si♭, the little one Re, `sing`); touching them in order repeats it (`resonate`, a wrong one `miss` and it is sung again, slower); the phrase grows from two notes to four, and with the four the pollen flies to the beings like bees and the rulito is born in the light. Details: `docs/escenas.md`.
 - `SceneConfianza` (18): a round labyrinth on the card's aqua with the chakana shining at its centre (its light a disc in code with its stippled band, read from the card by `scripts/sun-cloud.mjs`, as particles over its edge) and three beings at its doors (Particular, Aura, Vulpes), each its own picture; layers in `public/assets/confianza` and `confianzaScene.json` (made by `scripts/convert-confianza.mjs`). The dots are particles mirrored over the whole screen, and rings of light run out along the corridors. Its verb is Arraigar (`useRooting.js`): holding the centre floods the corridors with light (read once from the pictures and walked from the centre, `readMaze()`, drawn on a small canvas, `drawFlood()`); at each door the being lights up in its chakra's colour, at the last the rulito is born over the chakana and the three come home as lights running back to the centre; a short touch strums the chord and a touched being hops. Details: `docs/escenas.md`.
 - `SceneCompromiso` (16): a mushroom whose stem is a path to the horizon of its coral cap, under a dome of night where a boat with two beings floats; layers in `public/assets/compromiso` and `compromisoScene.json` (made by `scripts/convert-compromiso.mjs`, from a 4:5 portrait). The dome and the cap are drawn in code, the stars and rising motes are particles, and the water shimmers, mirrored past the frame on wide screens. The beings breathe, blink and hop at a quick touch. Its verb is Arraigar (`useRooting.js`): holding the beings lights the path up the stem to the horizon, its signs lighting as it passes (the stem and signs drawn again, warm, cut with a soft `clip`); whole, the rulito the card draws in the sky is born; let go, the light's tail climbs after it. Details: `docs/escenas.md`.
